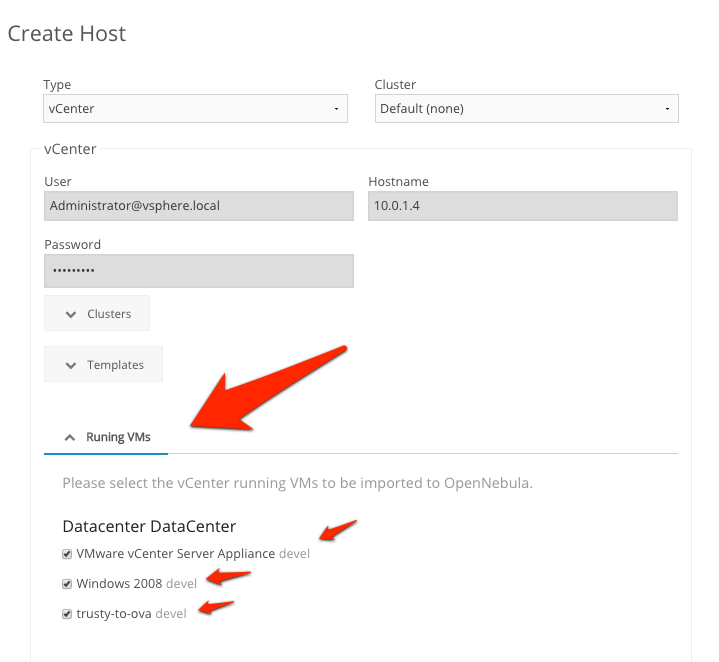
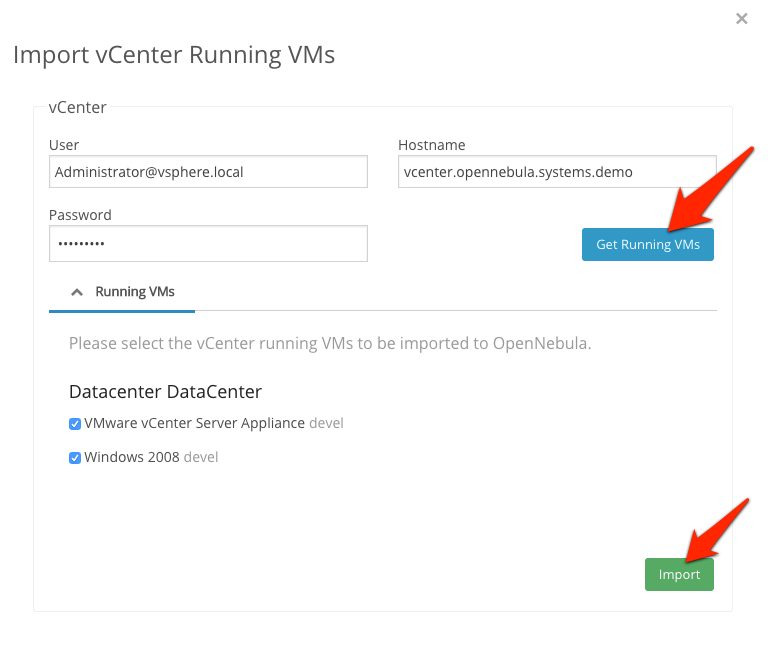
Feature #3711: Describe new import dialogs

diff --git a/docs/source/simple_cloud_deployment/import_vcenter.rst b/docs/source/simple_cloud_deployment/import_vcenter.rst
@@ -38,8 +38,6 @@ In the dialog that pops up, select vCenter as Type in the dropdown. You now need
 .. image:: /images/vcenter_create.png
     :align: center
 
-.. note:: Running VMs panel won't be filled if the vCenter cluster is not imported. To import running VMs from a Cluster, the vCenter cluster needs to be imported first as a vOneCloud host.
-
 After the vCenter cluster is selected in Step 2, a list of vCenter VM Templates and both Networks and Distributed vSwitches will be presented to be imported into vOneCloud. Select all the Templates, Networks and Distributed vSwitches you want to import, and vOneCloud will generate vOneCloud VM Template and Virtual Networks resources representing the vCenter VM templates and vCenter Networks and Distributed vSwitches respectively.
 
 Additionally, these vOneCloud VM templates can be edited to add information to be passed into the instantiated VM. This process is called :ref:`Contextualization <build_template_context>`.
@@ -47,7 +45,7 @@ Additionally, these vOneCloud VM templates can be edited to add information to b
 Also, Virtual Networks can be further refined with the inclusion of different `Address Ranges <http://docs.opennebula.org/4.10/user/virtual_resource_management/vgg.html#the-address-range-ar>`__. This refinement can be done at import time, defining the size of the network one of the following supported Address Ranges:
 
 - IPv4: Need to define at least starting IP address. MAC address can be defined as well
-- IPv6: Can oprionllty define starting MAC adddress, GLOBAL PREFIX and ULA PREFIX
+- IPv6: Can optionally define starting MAC adddress, GLOBAL PREFIX and ULA PREFIX
 - Ethernet: Does not manage IP addresses but rather MAC addresses. If a starting MAC is not provided, vOneCloud will generate one.
 
 The networking information will also be passed onto the VM in the :ref:`Contextualization <build_template_context>` process.
@@ -62,17 +60,19 @@ Regarding the vCenter VM Templates and Networks, is important to take into accou
 
 .. _import_running_vms:
 
-(Optional) Step 3. Import vCenter Running Virtual Machines / Reacquire VM Templates and Networks
-------------------------------------------------------------------------------------------------
+(Optional) Step 3. Import / Reacquire Virtual Machines, VM Templates and Networks
+---------------------------------------------------------------------------------
 
-If the vCenter infrastructure has running Virtual Machines, vOneCloud can import and subsequently manage them. The process involves using the same dialog as in Step 2, which will now present the running VMs for the vCenter clusters already imported in vOneCloud. To import running vCenter VMs:
+If the vCenter infrastructure has running Virtual Machines, vOneCloud can import and subsequently manage them. To import running vCenter VMs follow the next steps:
 
-1. Proceed to the ``Infrastructure --> Hosts`` tab and click on the "+" green icon.  Select vCenter as Type in the dropdown and fill in the credentials and the IP or hostname of vCenter.
-2. You will now see running vCenter VMs that can be imported in vOneCloud. Select the VMs that need to be imported one and click import button.
+1. Proceed to the ``Virtual Resources --> Virtual Machines`` tab and click on the "Import" green icon.  Fill in the credentials and the IP or hostname of vCenter and click on the "Get Running VMs" button.
+2. You will now see running vCenter VMs that can be imported in vOneCloud (only VMs running on previously imported cluster will be shown for import). Select the VMs that need to be imported one and click import button.
 3. After the VMs are imported you can operate on their lifecycle, asign them to particular users, attach or detach network interfaces, create snapshots, etc. All the funcionality that vOneCloud supports for regular VMs is present for imported VMs.
 
 .. image:: /images/import_running_vms.png
     :align: center
+
+vCenter VM Templates can be imported and reacquired using a similar procedure from the ``Import`` button in ``Virtual Resources --> Templates``. Moreover, Networks and Distributed vSwitches can also be imported / reacquired from using a similar ``Import`` button in ``Infrastructure --> Virtual Networks``.
 
 .. note:: The vCenter VM Templates, Networks, Distributed vSwitches and running Virtual Machines can be imported regardless of their position inside VM Folders, since vOneCloud will search recursively for them.
 
